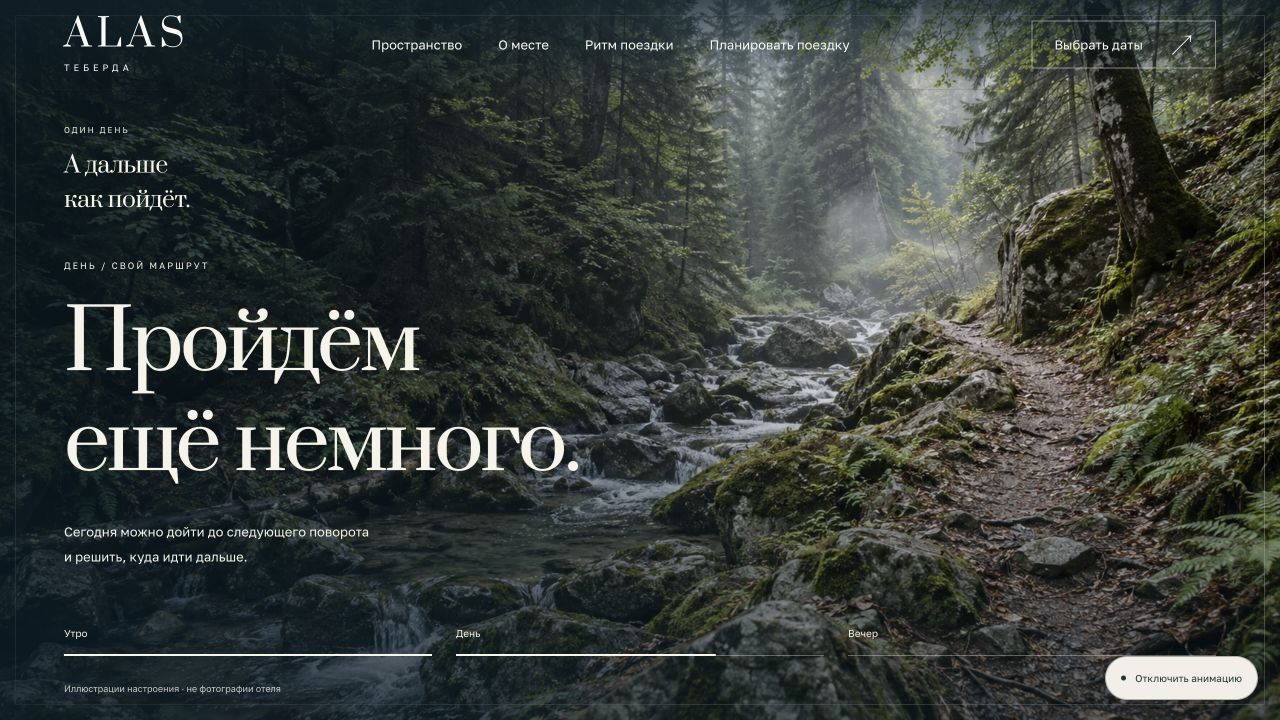
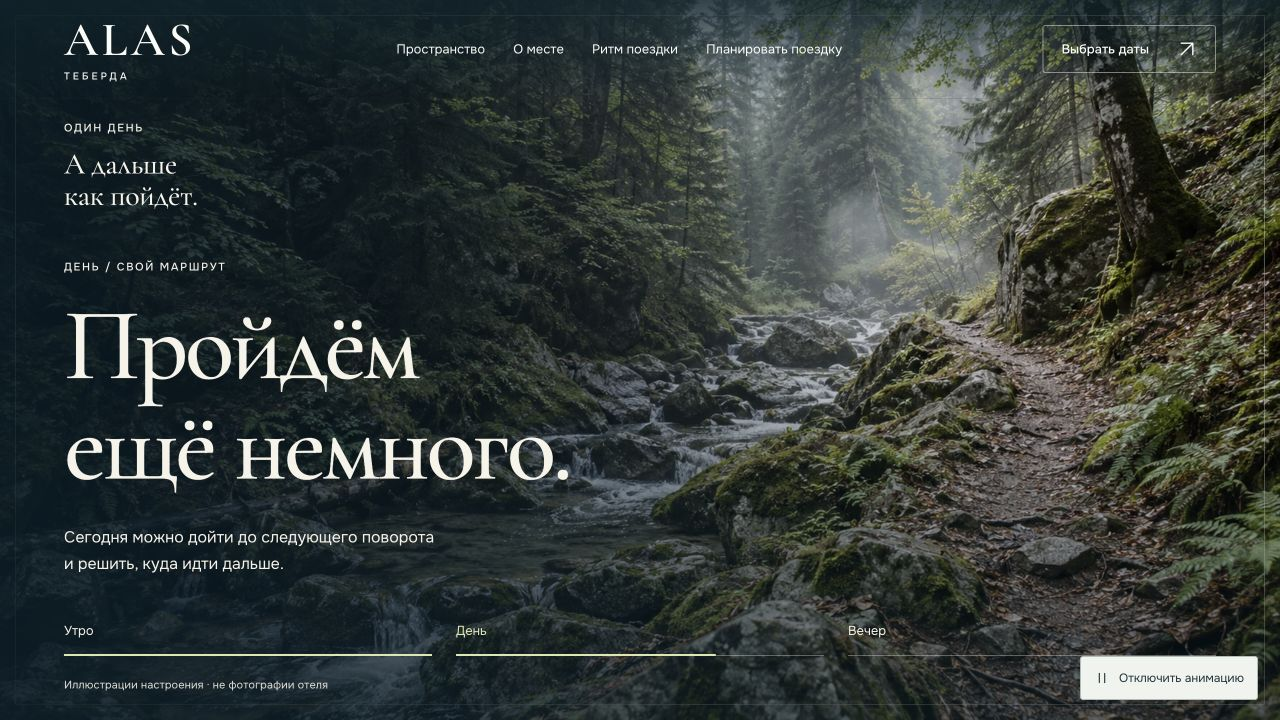
Refresh Alas Hotel typography and interface previews

diff --git a/README.md b/README.md
@@ -128,7 +128,7 @@
 
 <a href="https://github.com/uncrypted256/alas-hotel"><img src="assets/alas-hotel.png" alt="Alas Hotel" width="100%"></a>
 
-Сайт Alas в Теберде и панель управления отелем. В новом моушене пейзаж раскрывается из рамки ALAS, стены и пол собираются вокруг окна, лес появляется внутри крупных букв, а кадры дня разворачиваются в перспективе. Движение обратимо, есть статический режим. Сгенерированные иллюстрации служат концепцией; это не фотографии отеля. Календарь на 14 дней, создание и поиск броней, подтверждение и отмена, загрузка фото/видео через приватные черновики в галерею. Next.js, Prisma, SQLite и sharp; 38 серверных тестов предыдущего прохода, новая production-сборка и браузерные проверки 375/768/1280 px. Настоящие фотографии и тарифы, оплаты, уведомления и внешнее развёртывание ещё нужны.
+Сайт Alas в Теберде и панель управления отелем. В новом моушене пейзаж раскрывается из рамки ALAS, стены и пол собираются вокруг окна, лес появляется внутри крупных букв, а кадры дня разворачиваются в перспективе. Движение обратимо, есть статический режим. Cormorant Garamond и Onest с кириллицей, прохладная палитра, общие SVG-иконки и обновлённая панель дат. Сгенерированные иллюстрации служат концепцией; это не фотографии отеля. Календарь на 14 дней, создание и поиск броней, подтверждение и отмена, загрузка фото/видео через приватные черновики в галерею. Next.js, Prisma, SQLite и sharp; 38 серверных тестов предыдущего прохода, новая production-сборка и браузерные проверки 375/768/1280 px. Настоящие фотографии и тарифы, оплаты, уведомления и внешнее развёртывание ещё нужны.
 
 ![Новая обложка Alas](assets/alas-cinema.png)
 
